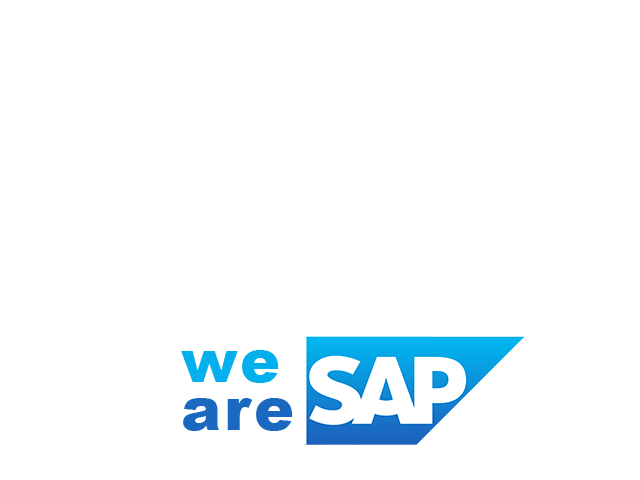
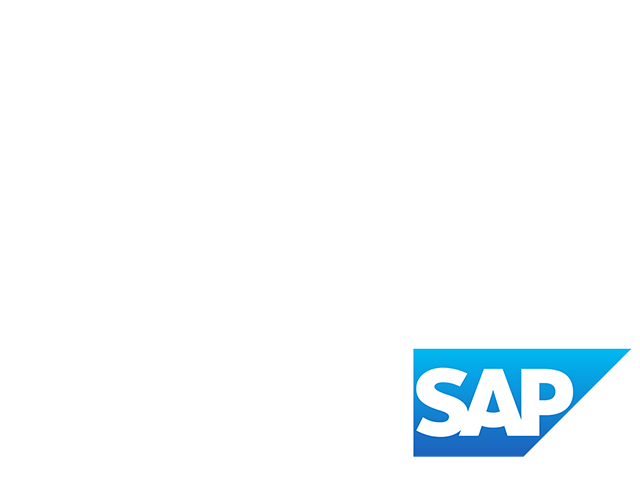
Next/previous buttons to search for other masks

Changed region(s): [[0.2812, 0.6875, 1.0, 0.9688]]

diff --git a/js/script.js b/js/script.js
@@ -1,6 +1,9 @@
 var canvas = document.getElementById('c');
 var video = document.getElementById('v');
+var buttonnext = document.getElementById('btnext');
+var buttonprevious = document.getElementById('btprevious');
 var img1 = document.getElementById('mask');
+var aMasks = ['mask1.png', 'mask2.png'];
 
 navigator.getUserMedia = navigator.getUserMedia || navigator.webkitGetUserMedia || navigator.mozGetUserMedia;
 
@@ -9,19 +12,14 @@ function onSuccess(mediaObj){
     var video = document.querySelector("video");
     video.src = window.URL.createObjectURL(mediaObj);
     video.play();
-    //video.srcObject = stream;
 }
- 
-//Our error callback where we will handle any issues
+
 function onError(errorObj){
     console.log("There was an error: " + errorObj);
 }
 
-var mediaConstraints = { video: true };
+navigator.getUserMedia({ video: true }, onSuccess, onError)
 
-navigator.getUserMedia(mediaConstraints, onSuccess, onError)
-
-// Download
 function download() {
     var ctx = canvas.getContext('2d');
     ctx.drawImage(video, 0, 0, 640, 480);
@@ -31,3 +29,36 @@ function download() {
     this.href = dt;
 };
 downloadLnk.addEventListener('click', download, false);
+
+function next() {
+    var sCurrentMaskTemp = img1.src;
+    var sCurrentMask = sCurrentMaskTemp.substring(sCurrentMaskTemp.lastIndexOf('/') + 1, sCurrentMaskTemp.length);
+    var iCurrentMask = aMasks.indexOf(sCurrentMask);
+    var iExpectedMask = iCurrentMask + 1;
+    var iMasksLength = aMasks.length;
+
+    if (iExpectedMask < iMasksLength) {
+        img1.src = 'img/' + aMasks[iExpectedMask];
+    }
+
+    buttonAvailabilities(iExpectedMask);
+};
+
+function previous() {
+    var sCurrentMaskTemp = img1.src;
+    var sCurrentMask = sCurrentMaskTemp.substring(sCurrentMaskTemp.lastIndexOf('/') + 1, sCurrentMaskTemp.length);
+    var iCurrentMask = aMasks.indexOf(sCurrentMask);
+    var iExpectedMask = iCurrentMask - 1;
+    var iMasksLength = aMasks.length;
+
+    if (iExpectedMask >= 0) {
+        img1.src = 'img/' + aMasks[iExpectedMask];
+    }
+
+    buttonAvailabilities(iExpectedMask);
+};
+
+function buttonAvailabilities(i) {
+    previous.disabled = i === 0;
+    next.disabled = i === (aMasks.length - 1);
+};

diff --git a/index.html b/index.html
@@ -19,13 +19,13 @@
             <canvas id="c" style="display:none;" width="640" height="480"></canvas>
         </div>
         <div class="mask-container">
-            <img id="mask" src="../img/mask2.png" />
+            <img id="mask" src="../img/mask1.png" />
         </div>
         <div class="previous">
-        <img src="img/left.png" />
+        <img id="btprevious" src="img/left.png" onclick="previous()" />
         </div>
         <div class="next">
-            <img src="img/right.png" />
+            <img id="btnext" src="img/right.png" onclick="next()" />
         </div>
         <div class="bottom">
             <a id="downloadLnk" download="iamproudtoworkatsap.jpg">
